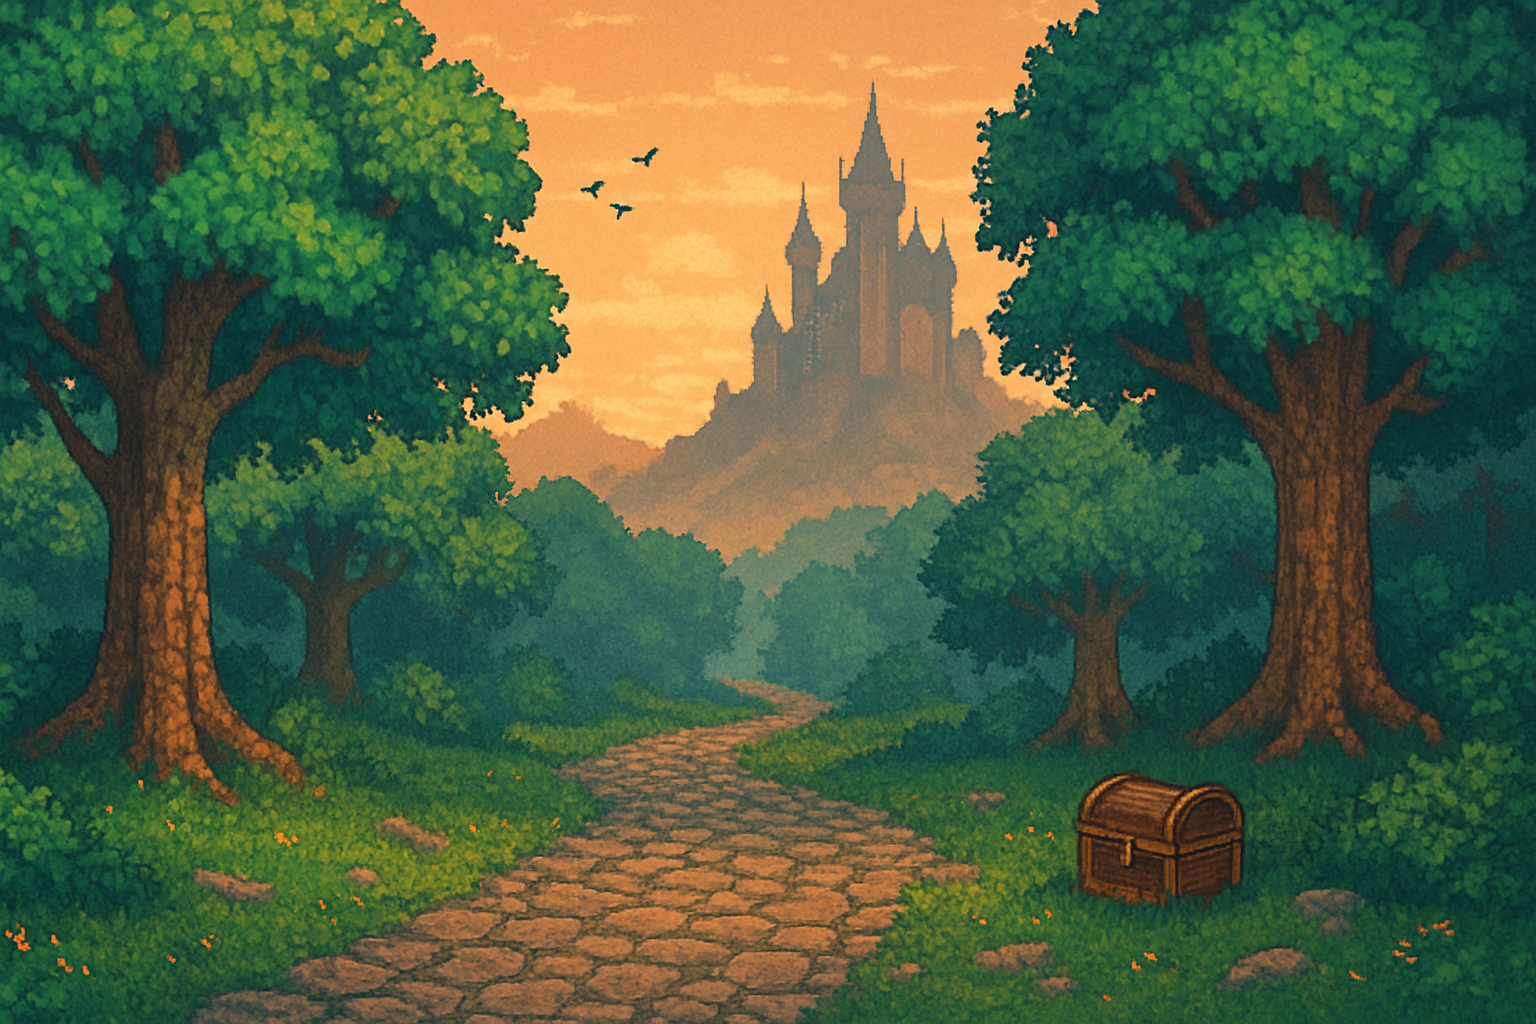
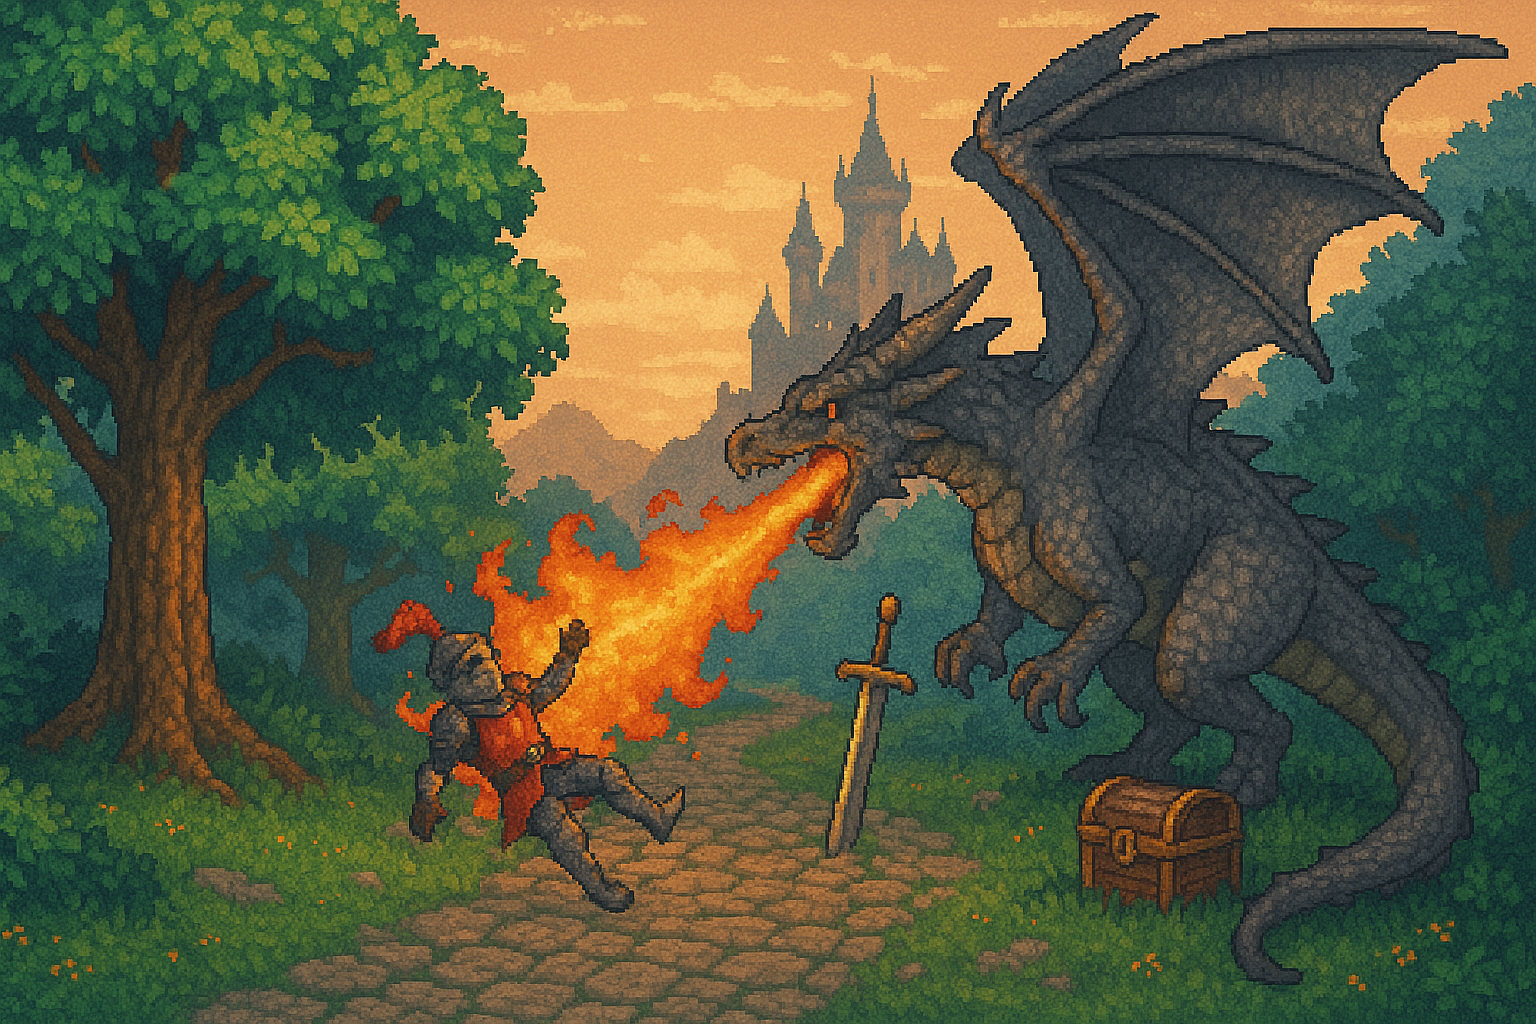
style(loading_screen): Agregado background epico al inicio.

diff --git a/src/roguelike_game/game/game.py b/src/roguelike_game/game/game.py
@@ -52,7 +52,7 @@ class Game:
             map_name: str = None,
             loading_bg: str | None = None
     ):        
-        # sistemas states se inicializan en etapas        
+                
         # loading stages
         stages = [
             ("Inicializando estados de sistemas",  lambda: self._init_systems_states(screen, perf_log, loading_bg)),

diff --git a/src/roguelike_game/main.py b/src/roguelike_game/main.py
@@ -25,7 +25,8 @@ def main():
     game = Game(
         screen,
         perf_log        = performance_log,        
-        map_name        = None
+        map_name        = None,
+        loading_bg      = "ui/background_ini.png"
     )
     if not hasattr(game, 'state'):
         raise RuntimeError("Game state not initialized properly!")
